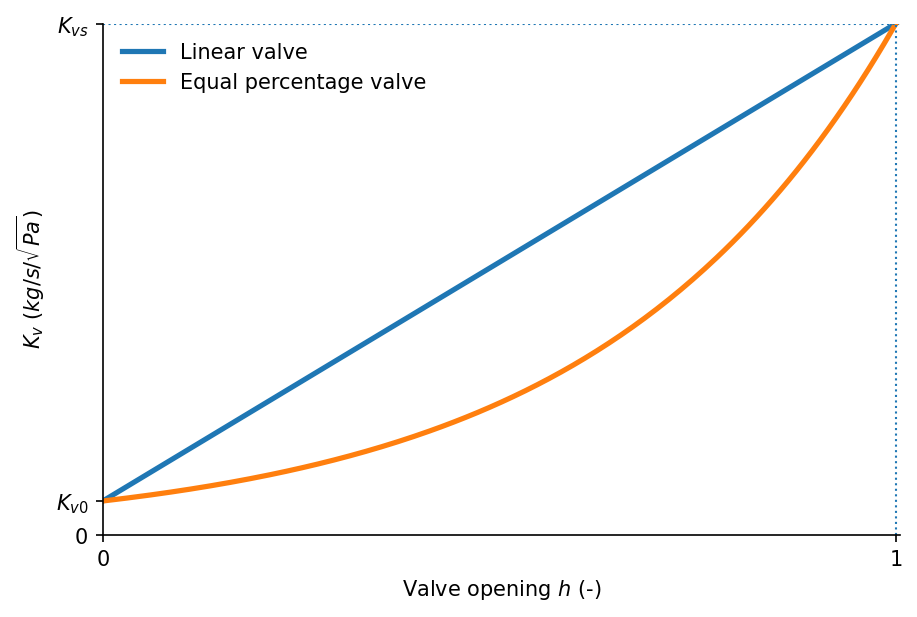
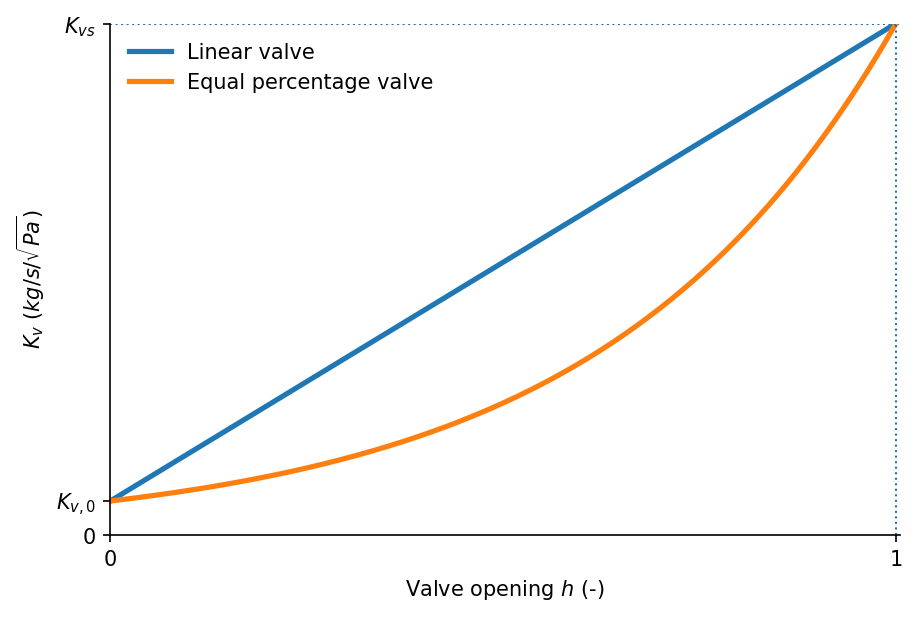
generate plots for thesis

diff --git a/codeplotLIT/heatdemandplot.py b/codeplotLIT/heatdemandplot.py
@@ -1,87 +1,113 @@
 import numpy as np
 import matplotlib.pyplot as plt
 import os
-from scipy.optimize import curve_fit
+import sys
 
-num_steps = 1000
-t = np.linspace(0, 24, num_steps)  # time in hours
-
-# Fit the function from Max
-xfit = [0,4,8,12,13,16,18,20,24]
-yfit = [0.31, 0.43, 0.65, 0.52, 0.5,0.53,0.6,0.51,0.31]
-
-x = np.asarray(xfit)
-y = np.asarray(yfit)
-
-def two_sin(x, A1, w1, p1, A2, w2, p2, offset):
-    return A1 * np.sin(w1 * x + p1) + A2 * np.sin(w2 * x + p2) + offset
-
-# initial guesses: amplitudes, angular frequencies (rad/h), phases, offset
-p0 = [0.4, np.pi/12, 0.0, 0.2, 2.8 * np.pi / 24, -0.3, 0.0]
-bounds = ([-5, 0.0, -4*np.pi, -5, 0.0, -4*np.pi, -2],
-          [ 5, 2*np.pi,  4*np.pi,  5, 2*np.pi,  4*np.pi,  2])
-
-popt, pcov = curve_fit(two_sin, x, y, p0=p0, bounds=bounds, maxfev=200000)
-A1, w1, p1, A2, w2, p2, offset = popt
-
-print(f'Fitted parameters:\nA1={A1}, w1={w1}, p1={p1}\nA2={A2}, w2={w2}, p2={p2}\noffset={offset}')
-
-# build fitted curve on the existing fine time grid `t`
-y_fit_full = two_sin(t, *popt)
-
-# definite integral (area under the fitted curve) over the t grid
-total_area = np.trapz(3600*y_fit_full, t)  # units: y * hours
-print(f"Integrated area (0-{t[-1]} h): {total_area:.6f} MJ")
-
-# To get the heat demand for one house, divide by total_area/65*1000  to get kW
-correction_factor = 1000 / (total_area/65)
-print(f'Correction factor: {correction_factor}')
-demand_one_house = correction_factor*y_fit_full
-plt.figure()
-plt.plot(t,demand_one_house,label='Heat demand 1 house (kW)')
-plt.ylabel('Heat demand (kW)')
-plt.xlabel('Time (h)')
-plt.grid()
-plt.title(f'Heat demand profile 1 appartement, total = {np.round(3.6*np.trapz(demand_one_house,t),2)} MJ')
-
-plt.figure()
-plt.plot(x, y, 'o', label='data')
-plt.plot(t, y_fit_full, '-', label='two-sin fit')
-plt.plot(t, A1 * np.sin(w1 * t + p1), '--', label='component 1')
-plt.plot(t, A2 * np.sin(w2 * t + p2), '--', label='component 2')
-plt.xlabel('Time (h)')
-plt.legend()
-plt.grid()
-plt.show()
+sys.path.insert(0, os.path.dirname(os.path.dirname(os.path.abspath(__file__))))
+from baseclasses.consumer import Consumer
 
 
-# def smooth_peak(x, x0, sigma, A=1):
-#     return A * np.exp(-(x - x0)**2 / (2*sigma**2))
+def consumer_start_times(profile, peaks):
+    if profile == 'Profile 1':
+        heat_demand_types = ['shower', 'shower']
+        start_times = peaks
 
-# # Create a time vector for one day (24 hours) with 1-minute intervals
-# t = np.linspace(0, 24*3600, 24*3600)  # time in seconds
+        consumer_list = []
+        for i in range(23):
+            consumer = Consumer(f'Consumer {i+1}', heat_demand_types, start_times)
+            consumer_list.append(consumer)
 
-# # Create a heat demand profile with two peaks (morning and evening)
-# y_pre_fit = smooth_peak(t, 8*3600, 0.07*3600) 
+    else:
+        if profile == 'Profile 2':
+            heat_demand_types = ['shower', 'shower']
+            amount = [5, 13, 5]
+            interval = 5 / 60
 
-# # + smooth_peak(t, 19*3600, 0.15*3600)  # units: W
+        elif profile == 'Profile 3':
+            heat_demand_types = ['shower', 'shower']
+            amount = [1, 2, 4, 9, 4, 2, 1]
+            interval = 5 / 60
 
-# total_area = np.trapz(y_pre_fit, t)  # units: y * hours
+        elif profile == 'Profile 4':
+            heat_demand_types = ['shower', 'shower']
+            amount = [1, 1, 2, 2, 2, 2, 3, 2, 2, 2, 2, 1, 1]
+            interval = 5 / 60
 
-# scaling_factor = 18e6 / (total_area)  # scaling factor to reach 65 MJ
-# y = y_pre_fit * scaling_factor  # scaled heat demand profile
-# plt.plot(t, y)
-# plt.title("One day heat demand profile (scaled to 18 MJ)")
-# plt.xlabel("Time (hours)")
-# plt.ylabel("Heat Demand (W)")
+        offsets = interval * np.arange(-len(amount) // 2, len(amount) // 2 + 1)
 
-# ax = plt.gca()
-# ax.set_xlim(0, 24 * 3600)  # limits in seconds
-# ticks_seconds = np.arange(0, 25, 4) * 3600
-# ax.set_xticks(ticks_seconds)
-# ax.set_xticklabels([f'{int(h)}' for h in np.arange(0, 25, 4)])
+        start_time1 = peaks[0] + offsets
+        start_time2 = peaks[1] + offsets
 
-# plt.grid()
-# plt.show()
+        consumer_list = []
+        tot_num = 0
+        for idx, num in enumerate(amount):
+            for i in range(num):
+                consumer = Consumer(
+                    f'Consumer {tot_num+i+1}',
+                    heat_demand_types,
+                    [start_time1[idx], start_time2[idx]],
+                )
+                consumer_list.append(consumer)
+            tot_num += num
 
-# print(f'Total energy demand over the day: {np.trapz(60*1e3*y, t)/1e6} MJ')  # Convert kW*min to MJ
+    return consumer_list
+
+
+def compute_total_heat_demand(profile, peaks, dt=60, total_time=24 * 3600):
+    num_steps = total_time // dt
+    t_hours = np.arange(num_steps) * dt / 3600
+
+    consumer_list = consumer_start_times(profile, peaks)
+
+    Q_total = np.zeros(num_steps)
+    for consumer in consumer_list:
+        consumer.initialize_consumer(num_steps, dt)
+        Q_total += consumer.Q_d
+
+    return t_hours, Q_total
+
+
+def plot_heat_demand_profiles():
+    peaks = [7.5, 21]
+    profiles = ['Profile 1', 'Profile 2', 'Profile 3', 'Profile 4']
+    dt = 60          # s
+    total_time = 24 * 3600  # s
+
+    thesis_dir = os.path.dirname(os.path.dirname(os.path.abspath(__file__)))
+    thesis_fig_folder = os.path.join(thesis_dir, 'Thesis report', 'figures_thesis')
+
+    # Compute total heat demand for each profile
+    t_hours = None
+    Q_totals = []
+    for profile in profiles:
+        t, Q = compute_total_heat_demand(profile, peaks, dt, total_time)
+        if t_hours is None:
+            t_hours = t
+        Q_totals.append(Q)
+
+    # --- Individual figures per profile ---
+    for idx, (profile, Q) in enumerate(zip(profiles, Q_totals)):
+        fig, ax = plt.subplots(figsize=(6, 4), constrained_layout=True)
+
+        ax.plot(t_hours, Q / 1e3, lw=1.5, color='C0')
+
+        ax.set_xlabel('Time (h)')
+        ax.set_ylabel('Total heat demand (kW)')
+        ax.set_xlim(0, 24)
+        ax.set_xticks([0, 4, 8, 12, 16, 20, 24])
+        ax.set_ylim(bottom=0)
+        ax.grid(alpha=0.3)
+        ax.spines['top'].set_visible(False)
+        ax.spines['right'].set_visible(False)
+
+        fname = f'heat_demand_profile_{idx + 1}.png'
+        plt.savefig(
+            os.path.join(thesis_fig_folder, fname),
+            dpi=150,
+            bbox_inches='tight',
+        )
+        # plt.show()
+
+
+if __name__ == '__main__':
+    plot_heat_demand_profiles()

diff --git a/codeplotLIT/pipe_overview.py b/codeplotLIT/pipe_overview.py
@@ -1,0 +1,114 @@
+"""
+Recreates the pipe cross-section figure (panel a only) from pijpdoorsnede.jpg,
+removing the casing layer, casing label, r_d arrow, and panel (b).
+"""
+
+import numpy as np
+import matplotlib
+matplotlib.use('Agg')
+import matplotlib.pyplot as plt
+import matplotlib.patches as patches
+import os
+
+fig, ax = plt.subplots(1, 1, figsize=(5, 5))
+ax.set_aspect('equal')
+
+# ---------------------------------------------------------------------------
+# Radii (normalised, no casing so r_d removed)
+# ---------------------------------------------------------------------------
+r_a = 0.30   # inner pipe wall (fluid boundary)
+r_b = 0.38   # outer pipe wall
+r_c = 0.70   # outer insulation
+
+# ---------------------------------------------------------------------------
+# Colors matching the original figure
+# ---------------------------------------------------------------------------
+color_fluid      = 'white'
+color_pipe       = '#4a4a4a'       # dark grey pipe wall
+color_insulation = '#b0b0b0'       # light grey insulation
+
+# ---------------------------------------------------------------------------
+# Draw layers (outermost first so inner layers paint over)
+# ---------------------------------------------------------------------------
+
+# Insulation
+insulation = plt.Circle((0, 0), r_c, color=color_insulation, zorder=1)
+ax.add_patch(insulation)
+
+# Pipe wall
+pipe = plt.Circle((0, 0), r_b, color=color_pipe, zorder=2)
+ax.add_patch(pipe)
+
+# Fluid interior
+fluid = plt.Circle((0, 0), r_a, color=color_fluid, zorder=3)
+ax.add_patch(fluid)
+
+# Thin black outlines
+for r, zorder in [(r_c, 4), (r_b, 5), (r_a, 6)]:
+    circle = plt.Circle((0, 0), r, fill=False,
+                         edgecolor='black', linewidth=0.8, zorder=zorder)
+    ax.add_patch(circle)
+
+# ---------------------------------------------------------------------------
+# Radius arrows: r_a, r_b, r_c  (diagonal, upper-right quadrant)
+# ---------------------------------------------------------------------------
+angle_ra = np.radians(0)   # arrow direction
+angle_rb = angle_ra + np.pi/4
+angle_rc = np.radians(90)
+def draw_radius_arrow(ax, r, label, angle, label_offset=(0.03, 0.03)):
+    x_end = r * np.cos(angle)
+    y_end = r * np.sin(angle)
+    ax.annotate('', xy=(x_end, y_end), xytext=(0, 0),
+                arrowprops=dict(arrowstyle='->', color='black', lw=0.9))
+    ax.text(x_end + label_offset[0], y_end + label_offset[1],
+            label, fontsize=10, ha='left', va='bottom')
+
+draw_radius_arrow(ax, r_a, r'$r_a$', angle_ra, label_offset=(-0.1,  -0.08))
+draw_radius_arrow(ax, r_b, r'$r_b$', angle_rb, label_offset=(0.02,  0.01))
+draw_radius_arrow(ax, r_c, r'$r_c$', angle_rc, label_offset=(0.02,  0.01))
+
+# ---------------------------------------------------------------------------
+# Labels with leader lines (left side, matching original)
+# ---------------------------------------------------------------------------
+label_x = -1.15
+
+def leader_label(ax, label, y_text, r_target, angle_leader=np.radians(200)):
+    x_circle = r_target * np.cos(angle_leader)
+    y_circle = r_target * np.sin(angle_leader)
+    ax.annotate('', xy=(x_circle, y_circle),
+                xytext=(label_x + 0.35, y_text),
+                arrowprops=dict(arrowstyle='-', color='black', lw=0.8))
+    ax.text(label_x + 0.30, y_text, label,
+            fontsize=10, ha='right', va='center')
+
+leader_label(ax, 'Pipe',        y_text= 0, r_target=(r_a + r_b) / 2)
+leader_label(ax, 'Insulation',  y_text=-0.20, r_target=(r_b + r_c) / 2)
+
+# ---------------------------------------------------------------------------
+# Coordinate axes (top-left corner)
+# ---------------------------------------------------------------------------
+ax_origin = (-0.88, 0.78)
+arrow_len  = 0.18
+ax.annotate('', xy=(ax_origin[0] + arrow_len, ax_origin[1]),
+            xytext=ax_origin,
+            arrowprops=dict(arrowstyle='->', color='black', lw=1.0))
+ax.annotate('', xy=(ax_origin[0], ax_origin[1] + arrow_len),
+            xytext=ax_origin,
+            arrowprops=dict(arrowstyle='->', color='black', lw=1.0))
+ax.text(ax_origin[0] + arrow_len + 0.04, ax_origin[1],     'z', fontsize=10, va='center')
+ax.text(ax_origin[0],                    ax_origin[1] + arrow_len + 0.05, 'y', fontsize=10, ha='center')
+
+# ---------------------------------------------------------------------------
+# Axes formatting
+# ---------------------------------------------------------------------------
+margin = 1.05
+ax.set_xlim(-margin, margin)
+ax.set_ylim(-margin, margin)
+ax.axis('off')
+
+plt.tight_layout()
+base_dir = os.path.dirname(os.path.dirname(os.path.abspath(__file__)))
+thesis_fig_folder = os.path.join(base_dir, 'Thesis report', 'figures_thesis')
+loc = os.path.join(thesis_fig_folder, 'pipe_cross_section.png')
+plt.savefig(loc, dpi=150, bbox_inches='tight')
+print('Done')

diff --git a/test.py b/test.py
@@ -1130,14 +1130,6 @@ def consumer_start_times(profile, peaks):
             consumer = Consumer(f'Consumer {i+1}',heat_demand_types, start_times)
             consumer_list.append(consumer)
 
-    elif profile == 'Profile 5':
-        # For testing
-        heat_demand_types = ['shower']
-        start_times = peaks
-        consumer_list = []
-        for i in range(23):
-            consumer = Consumer(f'Consumer {i+1}',heat_demand_types, start_times)
-            consumer_list.append(consumer)
     else:
         if profile == 'Profile 2':
 